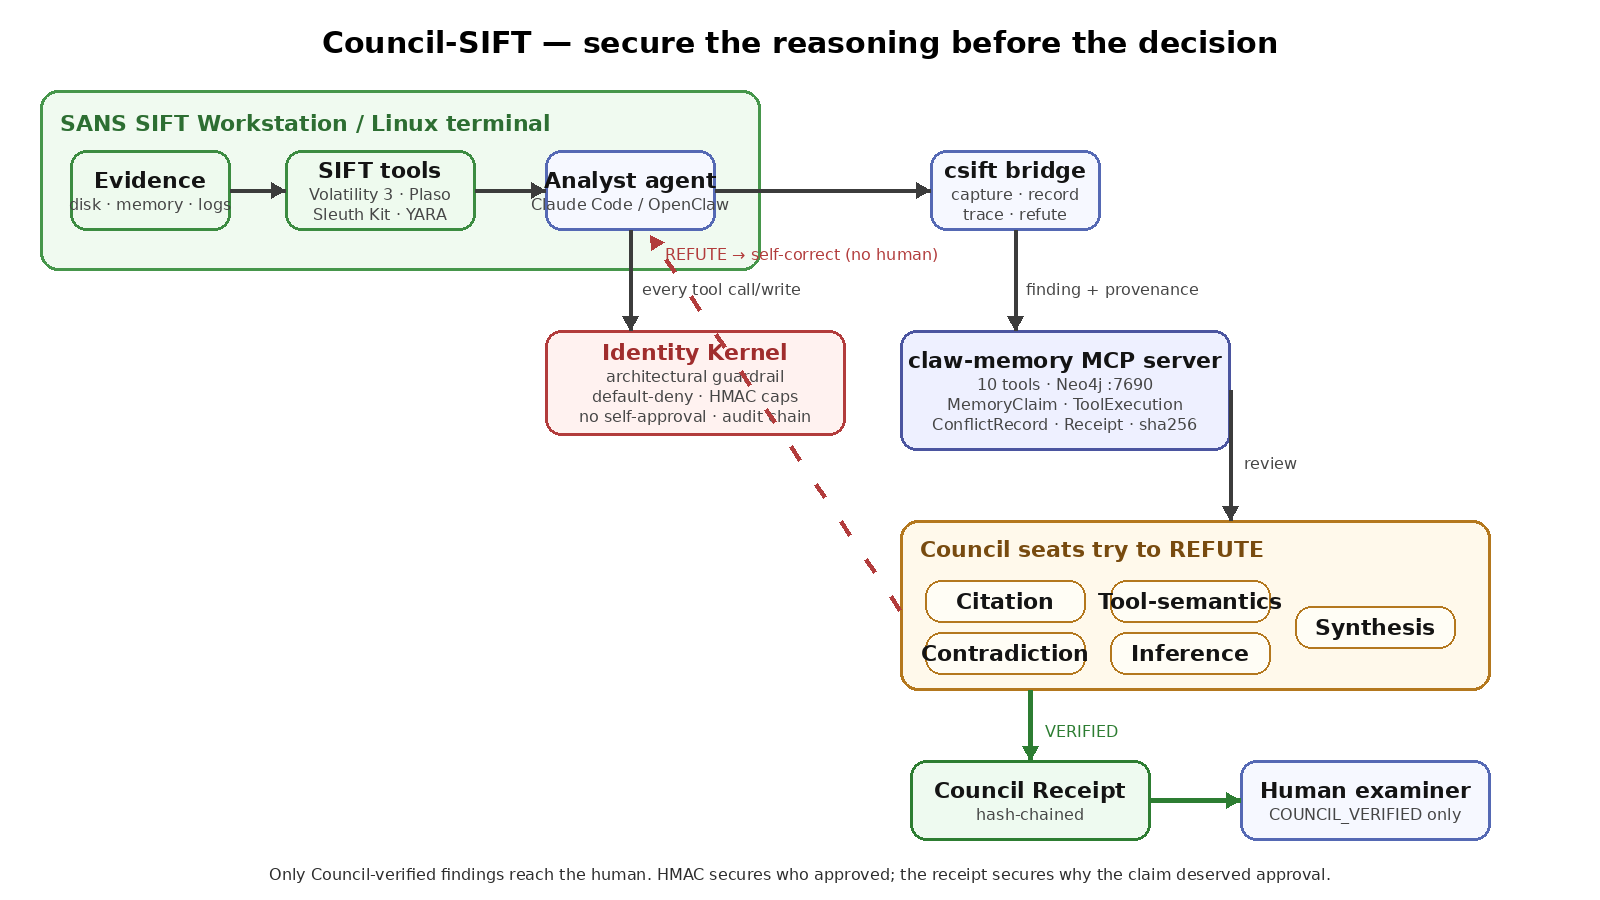
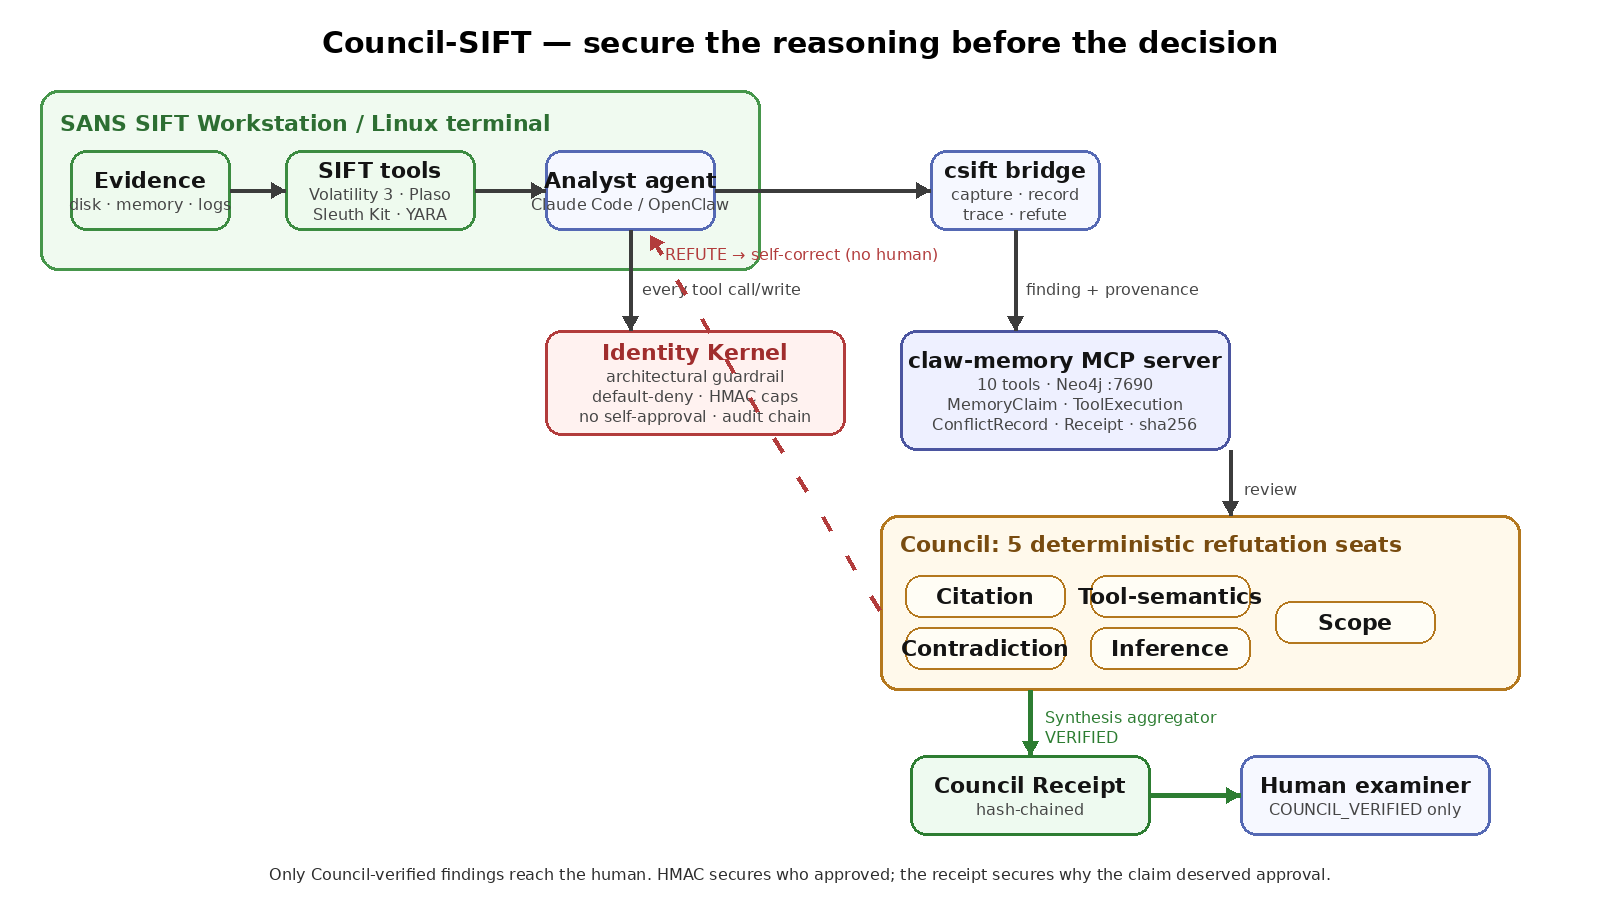
Address Council audit blockers in Devpost packet

Changed region(s): [[0.5312, 0.4978, 0.9375, 0.7467], [0.5625, 0.7778, 0.9375, 0.9333]]

diff --git a/docs/SUBMISSION_PACKET.md b/docs/SUBMISSION_PACKET.md
@@ -6,7 +6,7 @@ This file is the one-page operator checklist for everything **except recording/u
 
 | Item | Status | Exact artifact / value |
 |---|---:|---|
-| Public repository | ✅ done | https://github.com/davfd/council-sift — `main` at `e27617179d28a63ea0b9dfc82874763af3248281` |
+| Public repository | ⚠️ push required | https://github.com/davfd/council-sift — public `main` was behind during Council audit; push the current polished `HEAD` and verify `git ls-remote origin refs/heads/main` matches before claiming the public repo contains these updates |
 | Open-source license | ✅ done | `LICENSE` — MIT, detected by GitHub |
 | README setup + run instructions | ✅ done | `README.md` → Setup, Run the demos, Live autonomous analyst |
 | Written project description | ✅ done | `docs/DEVPOST_SUBMISSION_COPY.md` |
@@ -17,6 +17,7 @@ This file is the one-page operator checklist for everything **except recording/u
 | Structured investigative reports | ✅ done | `reports/` |
 | Demo recording cue card | ✅ done | `docs/FINAL_RECORDING_CUE_CARD.md` |
 | Demo video URL | ⛔ operator-owned | Upload final public YouTube/Vimeo/Youku URL, then paste into Devpost |
+| Credentialed GitHub push | ⛔ operator-owned | Push current polished `HEAD` or a successor containing these files; verify `git ls-remote origin refs/heads/main` matches before final submission |
 
 ## Devpost fields to paste
 
@@ -31,7 +32,7 @@ Use `docs/DEVPOST_SUBMISSION_COPY.md` for the long text. Short fields:
 
 ## Eight required FIND EVIL components
 
-1. **Code Repository** — public GitHub, MIT license: ✅
+1. **Code Repository** — public GitHub, MIT license: ⚠️ repo exists, but push the polished local packet before final submission
 2. **Demo Video** — terminal screencast, audio, self-correction: ⛔ video URL still required
 3. **Architecture Diagram** — agent, SIFT tools, MCP server, evidence sources, output pipeline, boundaries: ✅
 4. **Written Project Description** — Devpost story format: ✅
@@ -53,10 +54,18 @@ Use `docs/DEVPOST_SUBMISSION_COPY.md` for the long text. Short fields:
 
 ## Final operator actions
 
-1. Record from `/home/exor/council-sift-recording` using `docs/FINAL_RECORDING_CUE_CARD.md`.
-2. Upload the video publicly.
-3. Paste the video URL into Devpost.
-4. Attach or link `docs/architecture.png` / `docs/architecture.svg`.
-5. Submit before deadline.
+1. Push the polished local packet or otherwise publish these exact artifacts:
+   ```bash
+   cd /home/exor/council-sift-recording
+   local_head=$(git rev-parse HEAD)
+   git push origin HEAD:main
+   git ls-remote origin refs/heads/main
+   ```
+   The final `ls-remote` must show `$local_head`, or a later explicitly approved commit containing the same packet.
+2. Record from `/home/exor/council-sift-recording` using `docs/FINAL_RECORDING_CUE_CARD.md`.
+3. Upload the video publicly.
+4. Paste the video URL into Devpost.
+5. Attach or link `docs/architecture.png` / `docs/architecture.svg`.
+6. Submit before deadline.
 
-Do **not** spend remaining time rewriting native SIFT integration unless the current SIFT wrapper fails in recording. The current non-video submission packet is complete; the remaining elimination risk is the public video URL and final Devpost form submission.
+Do **not** spend remaining time rewriting native SIFT integration unless the current SIFT wrapper fails in recording. The current non-video packet is complete **locally**; remaining elimination risks are credentialed GitHub publication of this packet, the public video URL, and final Devpost form submission.

diff --git a/ARCHITECTURE.md b/ARCHITECTURE.md
@@ -20,13 +20,14 @@ flowchart TB
     KERNEL["Identity Kernel<br/>(HMAC capabilities · default-deny tool gate &<br/>prompt-injection refusal · hash-chained audit)"]
     BRIDGE["csift bridge<br/>record-finding · trace · refute"]
     MEM[("claw-memory-core MCP server (10 tools)<br/>Neo4j @ 7690<br/>MemoryClaim · ToolExecution<br/>ConflictRecord · CouncilReceipt")]
-    subgraph COUNCIL["Council seats (5, deterministic)"]
+    subgraph COUNCIL["Deterministic refutation seats (5)"]
       CIT["Citation<br/>(cited tokens resolve?)"]
       TS["Tool-semantics<br/>(psscan≠C2, netscan≠exfil)"]
       CON["Contradiction<br/>($SI vs $FN timestomp)"]
       INF["Inference<br/>(no attribution/intent leap)"]
-      SYN["Synthesis<br/>(adjudicate → Receipt | bounce)"]
+      SCOPE["Scope<br/>(host/IP/artifact bounds)"]
     end
+    SYN["Synthesis aggregator<br/>(adjudicate → Receipt | bounce)"]
     RECEIPT["Council Receipt<br/>(hash-chained)"]
   end
 
@@ -35,19 +36,19 @@ flowchart TB
   ANALYST -- "SIFT tool calls via bin/sift (live gate)" --> KERNEL
   KERNEL --> BRIDGE
   BRIDGE -- "4-part finding + DERIVED_FROM provenance" --> MEM
-  MEM --> COUNCIL
-  COUNCIL -- "REFUTE → mark_wrong → ConflictRecord" --> ANALYST
-  COUNCIL -- "VERIFIED" --> RECEIPT --> MEM
+  MEM --> COUNCIL --> SYN
+  SYN -- "REFUTE → mark_wrong → ConflictRecord" --> ANALYST
+  SYN -- "VERIFIED" --> RECEIPT --> MEM
   RECEIPT -. "COUNCIL_VERIFIED only" .-> HUMAN
 
   classDef store fill:#eef,stroke:#88a;
   class MEM store;
 ```
 
-\* The five seats are the **deterministic precision floor** (`council/seats.mjs`): Citation
+\* The five refutation seats are the **deterministic precision floor** (`council/seats.mjs`): Citation
 (token-boundary matching — a fabricated token embedded in a larger real one is still ABSENT),
 Tool-semantics and Inference (clause-local hedging — a stray negation elsewhere no longer disables the
-check), Contradiction, Synthesis. On top, an **additive LLM skeptic panel** (`council/llm_skeptic.mjs`)
+check), Contradiction, and Scope. Synthesis is the aggregator that turns seat verdicts into verify-or-bounce. On top, an **additive LLM skeptic panel** (`council/llm_skeptic.mjs`)
 runs ONLY on findings the floor passed; three independent skeptics (distinct lenses) must reach a
 **≥2/3 majority** to add a bounce. It can never overturn a floor refute, and abstains (no effect)
 without an authenticated Claude Agent SDK, so the reproducible baseline is unchanged. `run_agentic.mjs`
@@ -82,12 +83,12 @@ is the OpenClaw seat-narration view of the floor verdicts.
    a 10-tool Model Context Protocol (MCP) server for review/memory operations, imports
    stdout from that verified capture, refuses caller-supplied `output`, and attaches a
    `ToolExecution` provenance node (`DERIVED_FROM`) holding the exact command + output + `output_sha256`.
-4. **Council review (two tiers).** *Floor:* five deterministic seats try to refute. **Citation** —
+4. **Council review (two tiers).** *Floor:* five deterministic refutation seats try to refute. **Citation** —
    every cited token must appear in the tool output **as a standalone token** (absent = hallucination →
    REFUTE). **Tool-semantics** — the tool isn't over-read (psscan≠C2, netscan≠exfil, shimcache≠execution),
    judged **clause-locally** so a disclaimer only excuses the clause it sits in. **Contradiction** — a
    disproving artifact ($SI vs $FN timestomp). **Inference** — no attribution/intent/causation/certainty
-   over-reach (negation-only hedge). **Synthesis** aggregates → verify or bounce. *Additive tier:* if the
+   over-reach (negation-only hedge). **Scope** — no single-host/single-artifact claim is widened beyond the evidence. **Synthesis** aggregates → verify or bounce. *Additive tier:* if the
    floor passed, the **LLM skeptic panel** (`llm_skeptic.mjs`) runs — a ≥2/3 majority of independent
    skeptics can **add** a bounce for an over-read the regex floor cannot enumerate; it never rescues a
    refuted finding. Its recall and false-positive behavior are measured separately from the deterministic

diff --git a/README.md b/README.md
@@ -138,7 +138,7 @@ then found the actual `StarFury.zip` archive/staging artifact — corroborating 
 
 | Required item | Location / status |
 |---|---|
-| Public code repository | [`https://github.com/davfd/council-sift`](https://github.com/davfd/council-sift) — clean public snapshot on `main`; do not push local archive refs |
+| Public code repository | [`https://github.com/davfd/council-sift`](https://github.com/davfd/council-sift) — before final Devpost submission, verify public `main` contains the polished packet commit/artifacts; do not push local archive refs |
 | **Open-source license (MIT)** | [`LICENSE`](LICENSE) — MIT, detected by GitHub → shown in **About** |
 | README with setup | this file → **[Setup](#setup-step-by-step)** |
 | Step-by-step run instructions against evidence | **[Setup](#setup-step-by-step)** + **[Run the demos](#run-the-demos)** |
@@ -191,9 +191,10 @@ flowchart LR
   ANALYST -- "tool calls via bin/sift" --> KERNEL["Identity Kernel (live at bin/sift)<br/>default-deny tool gate · HMAC caps · refusals · hash-chain audit"]
   KERNEL --> BRIDGE["csift bridge<br/>record · trace · refute"]
   BRIDGE --> MEM[("claw-memory-core MCP server (10 tools)<br/>Neo4j @7690<br/>MemoryClaim · ToolExecution<br/>ConflictRecord · Receipt")]
-  MEM --> COUNCIL["Council seats<br/>Citation · Tool-semantics<br/>Contradiction · Inference · Synthesis"]
-  COUNCIL -- "REFUTE → ConflictRecord" --> ANALYST
-  COUNCIL -- "VERIFIED" --> RECEIPT["Council Receipt<br/>(hash-chained)"]
+  MEM --> COUNCIL["5 deterministic refutation seats<br/>Citation · Tool-semantics<br/>Contradiction · Inference · Scope"]
+  COUNCIL --> SYN["Synthesis aggregator<br/>adjudicate → receipt | bounce"]
+  SYN -- "REFUTE → ConflictRecord" --> ANALYST
+  SYN -- "VERIFIED" --> RECEIPT["Council Receipt<br/>(hash-chained)"]
   RECEIPT -. "COUNCIL_VERIFIED only" .-> HUMAN["Human examiner<br/>(HMAC approve)"]
 ```
 

diff --git a/docs/DEVPOST_SUBMISSION_COPY.md b/docs/DEVPOST_SUBMISSION_COPY.md
@@ -79,7 +79,7 @@ Autonomy is not only tool use. In DFIR, autonomy must include disciplined refusa
 
 ## Required links / artifacts
 
-- Public repo: https://github.com/davfd/council-sift
+- Public repo: https://github.com/davfd/council-sift — before final submission, verify public `main` contains the polished packet commit/artifacts
 - Demo video: **paste final public video URL before submitting**
 - Architecture diagram: `docs/architecture.png` and `docs/architecture.svg`
 - Evidence documentation: `evidence-docs/EVIDENCE.md`
@@ -97,6 +97,8 @@ The public repo README contains the full setup. The short path:
 3. Build `claw-memory-core` and run `scripts/migrate.sh`.
 4. Run no-key checks: `node eval/smoke_lifecycle.mjs`, `node eval/ablation.mjs`, `node eval/adversarial_evasions.mjs`, `node eval/trusted_execution_test.mjs`, `node eval/skeptic_panel_test.mjs`, and `python3 tests/test_bypass.py`.
 5. If a SIFT workstation and official evidence are available, set `SIFT_WRAPPER`, mount evidence read-only, run `bash analyst/srl_memory_demo.sh`, and trace the verified finding.
+
+Operator note: if preparing from `/home/exor/council-sift-recording`, push the current polished `HEAD` before using the public GitHub URL as the artifact source. During the Council audit, public `main` lagged the local packet; verify with `git rev-parse HEAD` and `git ls-remote origin refs/heads/main` before final submission.
 
 ## Key judging points
 

diff --git a/evidence-docs/EVIDENCE.md b/evidence-docs/EVIDENCE.md
@@ -107,7 +107,7 @@ rerun-verified evidence.
 
 - Layer A is synthetic (mechanism proof, not accuracy). Accuracy is carried by layers C (at scale, real
   output) and D (external held-out). Absolute numbers generalize only as far as each layer's ground truth.
-- All five seats are implemented (Citation, Tool-semantics, Contradiction, Inference, Synthesis). The
+- All five deterministic refutation seats are implemented (Citation, Tool-semantics, Contradiction, Inference, Scope), with Synthesis as the aggregator that turns seat verdicts into verify-or-bounce. The
   Citation seat catches **absent/fabricated** tokens; **misinterpretation of present** evidence is the
   Tool-semantics / Inference seats' job — and the live SRL self-correction is exactly such a case.
 - MITRE TTP exact-ID coverage (layer D) is weak and reported as such; the verdict is the headline metric.